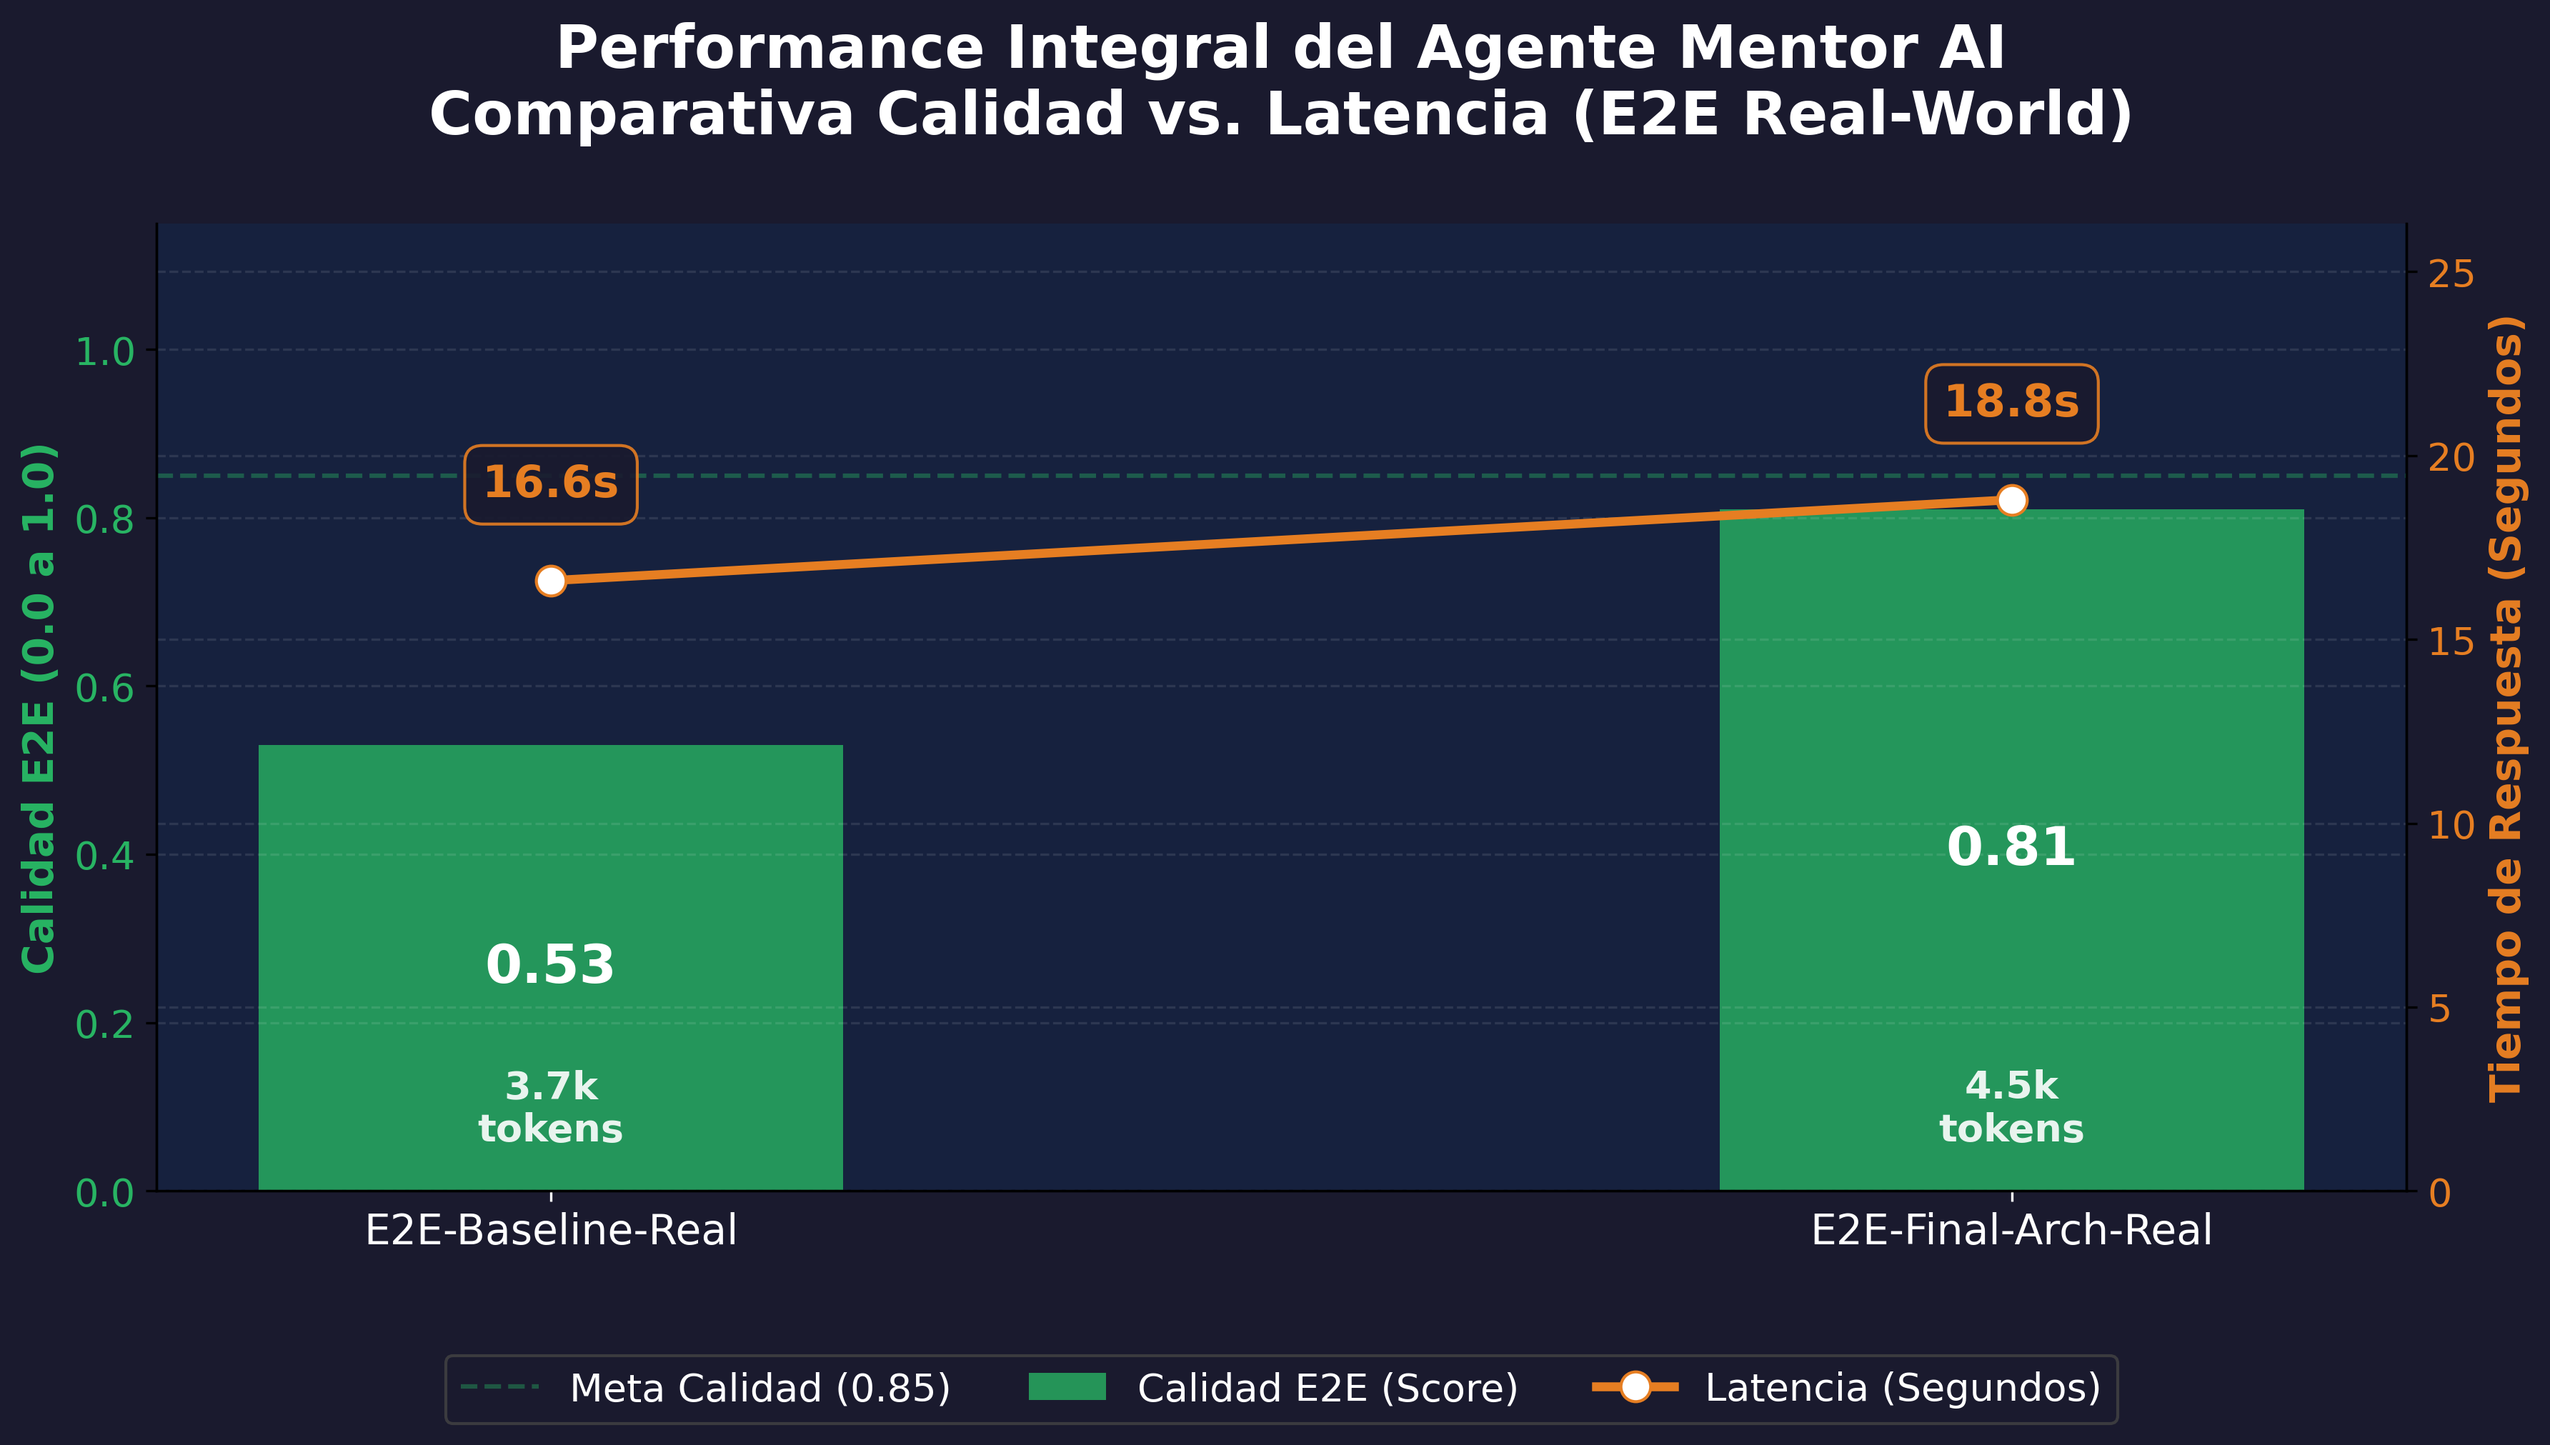
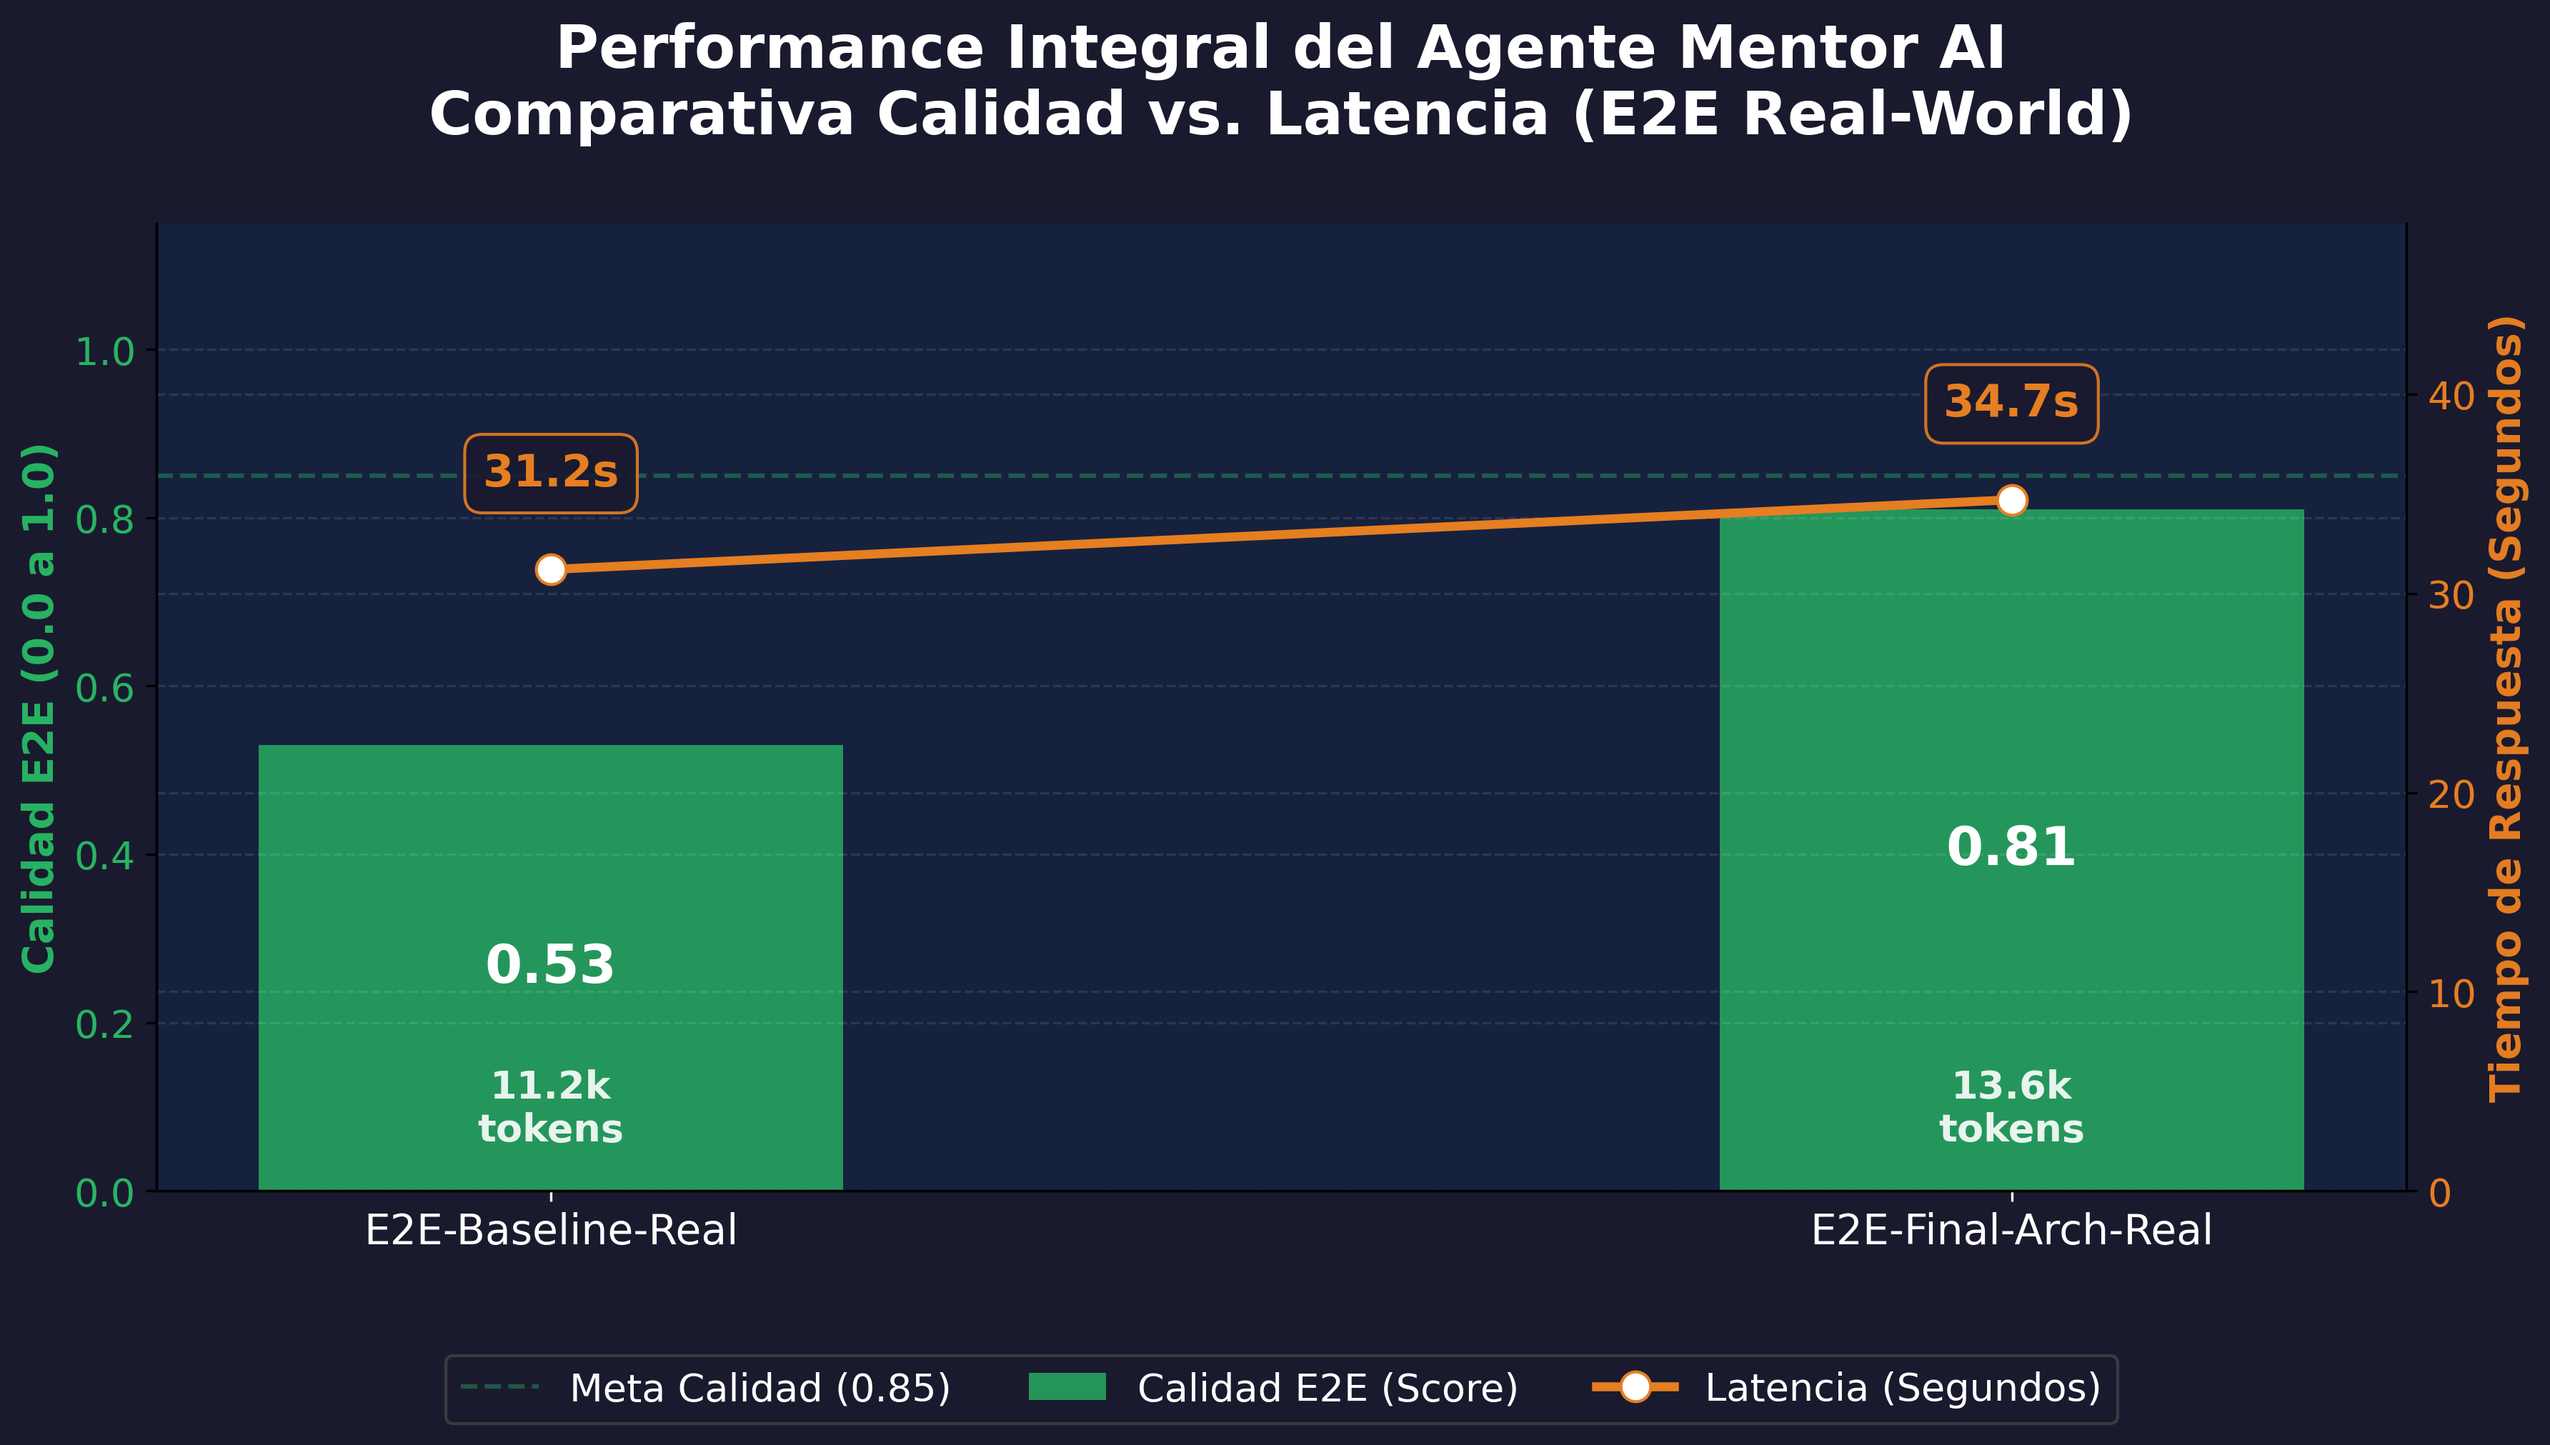
docs: incluir graficas de resultados y resumen tecnico para mentor AI

diff --git a/backend/evaluations/reports/reporte_sistema_e2e.py b/backend/evaluations/reports/reporte_sistema_e2e.py
@@ -54,23 +54,48 @@ def generate_e2e_report():
                 scores_by_key[key].append(f.score)
         
         # Calcular latencia (segundos) y costo aproximado
+        # IMPORTANTE: Solo se consideran los runs de nivel raíz (sin parent_run_id)
+        # para medir el tiempo E2E real del agente completo, sin distorsión de sub-runs.
         total_latency = 0
-        total_tokens = 0
-        run_count = len(runs) if len(runs) > 0 else 1
+        total_tokens_agent = 0   # Tokens del pipeline del agente (sin el juez evaluador)
+        total_tokens_judge = 0   # Tokens del LLM-Judge (separados para referencia)
+
+        root_runs = [r for r in runs if getattr(r, 'parent_run_id', None) is None]
+        run_count = len(root_runs) if len(root_runs) > 0 else 1
         
-        for r in runs:
+        for r in root_runs:
             if getattr(r, 'start_time', None) and getattr(r, 'end_time', None):
                 latency = (r.end_time - r.start_time).total_seconds()
                 total_latency += latency
+        
+        # Tokens: separar runs del agente de los del juez (evaluador LLM-as-Judge)
+        # Los runs del juez son identificables porque su nombre contiene "ChatPromptTemplate"
+        # o "RunnableSequence" generado por _build_judge_chain, o porque son runs de tipo
+        # "evaluator" registrados por LangSmith automáticamente.
+        JUDGE_KEYWORDS = ["judge", "evaluator", "ChatPromptTemplate", "JsonOutputParser", "RunnableSequence"]
+        
+        for r in runs:
+            run_name = (getattr(r, 'name', '') or '').lower()
+            run_type = (getattr(r, 'run_type', '') or '').lower()
+            is_judge_run = (
+                run_type == "evaluator" or
+                any(kw.lower() in run_name for kw in JUDGE_KEYWORDS)
+            )
             
-            # LangSmith acumula los tokens en r.total_tokens o extra fields
+            tokens = 0
             if hasattr(r, 'total_tokens') and r.total_tokens:
-                total_tokens += r.total_tokens
+                tokens = r.total_tokens
             elif r.extra and "total_tokens" in r.extra:
-                total_tokens += r.extra["total_tokens"]
+                tokens = r.extra["total_tokens"]
+            
+            if is_judge_run:
+                total_tokens_judge += tokens
+            else:
+                total_tokens_agent += tokens
 
         avg_latency = total_latency / run_count
-        avg_tokens = total_tokens / run_count
+        # Usamos solo los tokens del agente (sin el juez) para la gráfica
+        avg_tokens = total_tokens_agent / run_count
         # Costo aprox por sesión (asumiendo GPT-4o-mini o GPT-3.5: ~$0.5 / 1M tokens = $0.0005 por 1k)
         # Esto es referencial para la gráfica
         costo_promedio_centavos = (avg_tokens / 1000) * 0.05 
